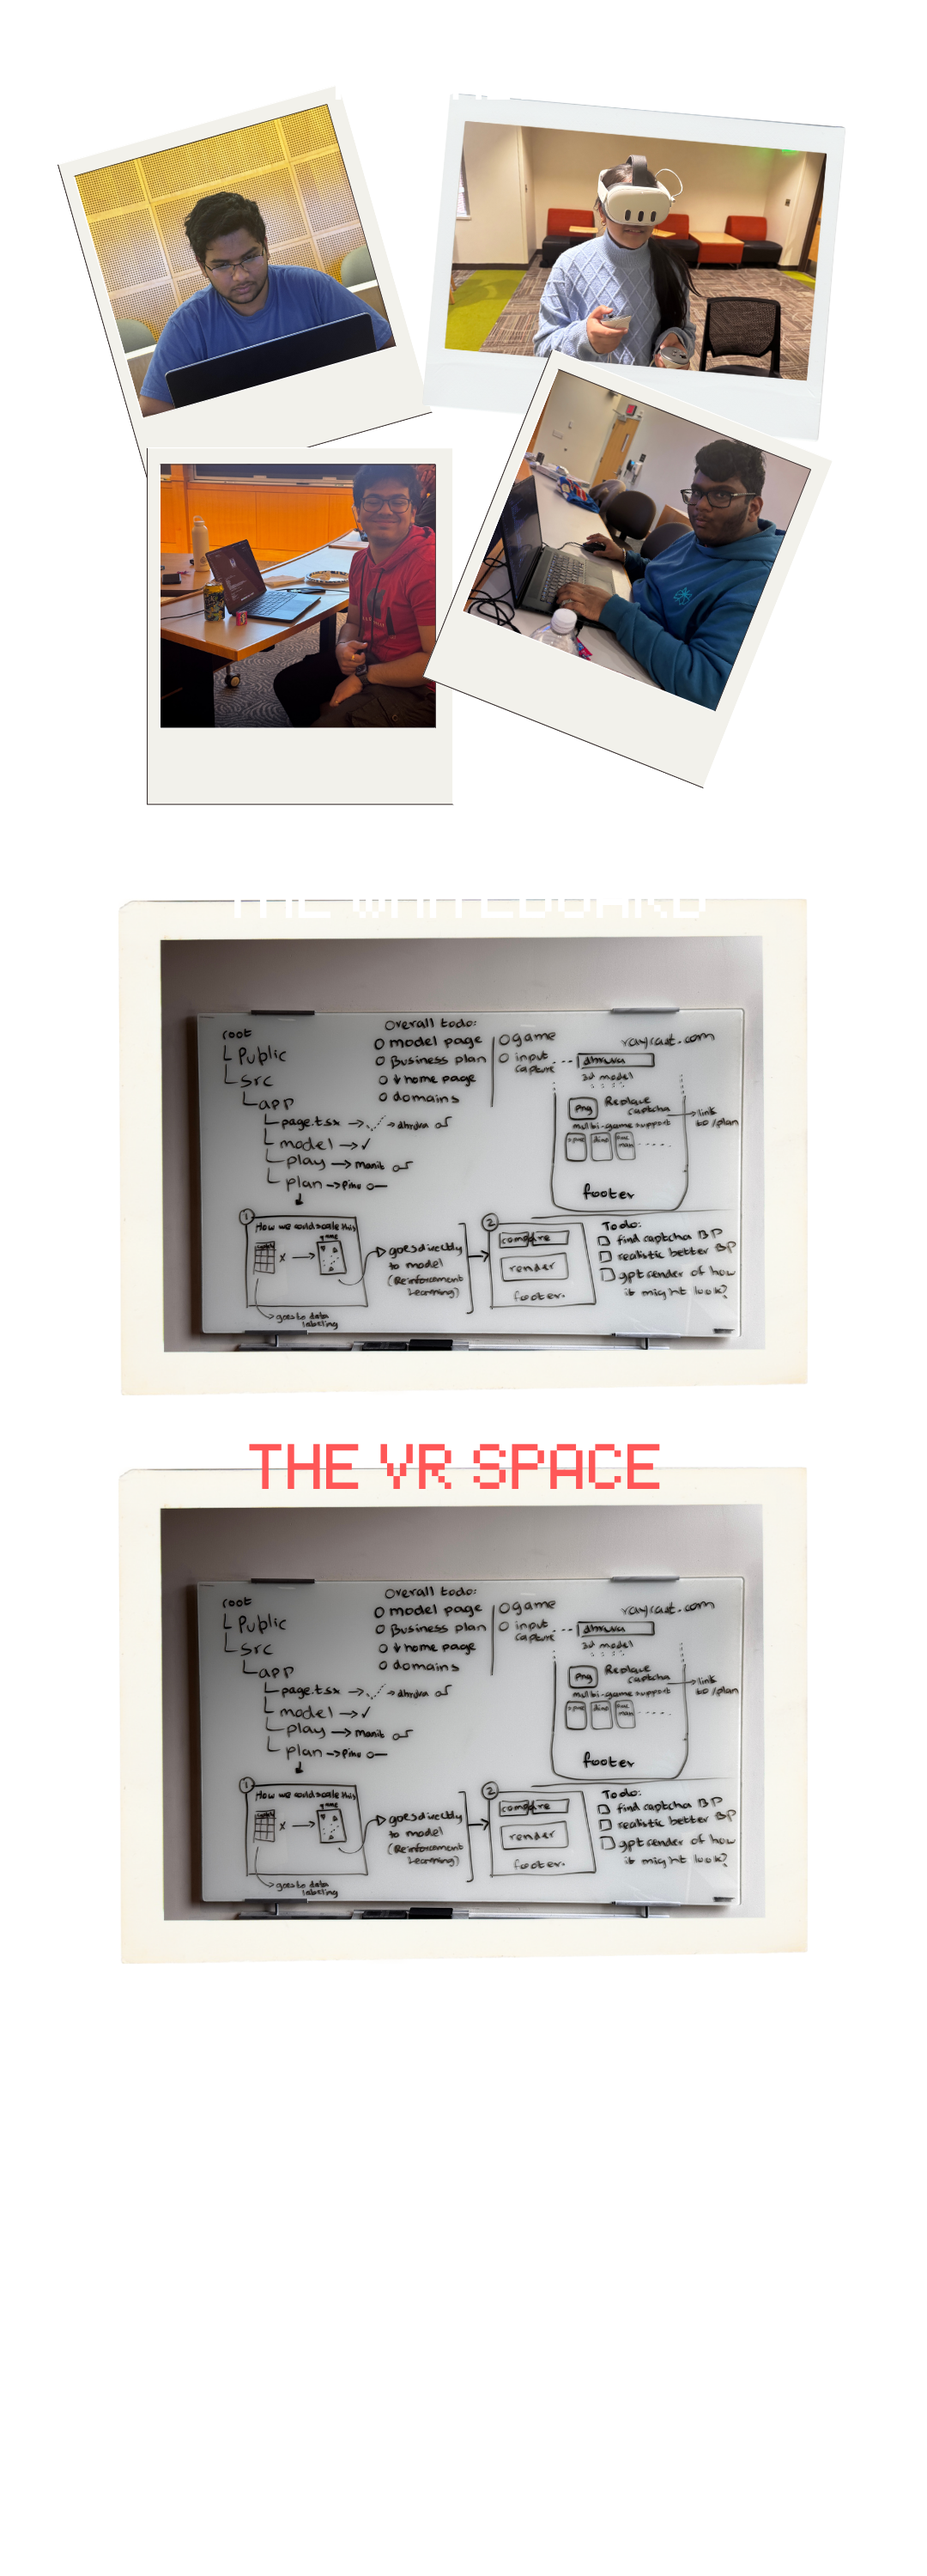
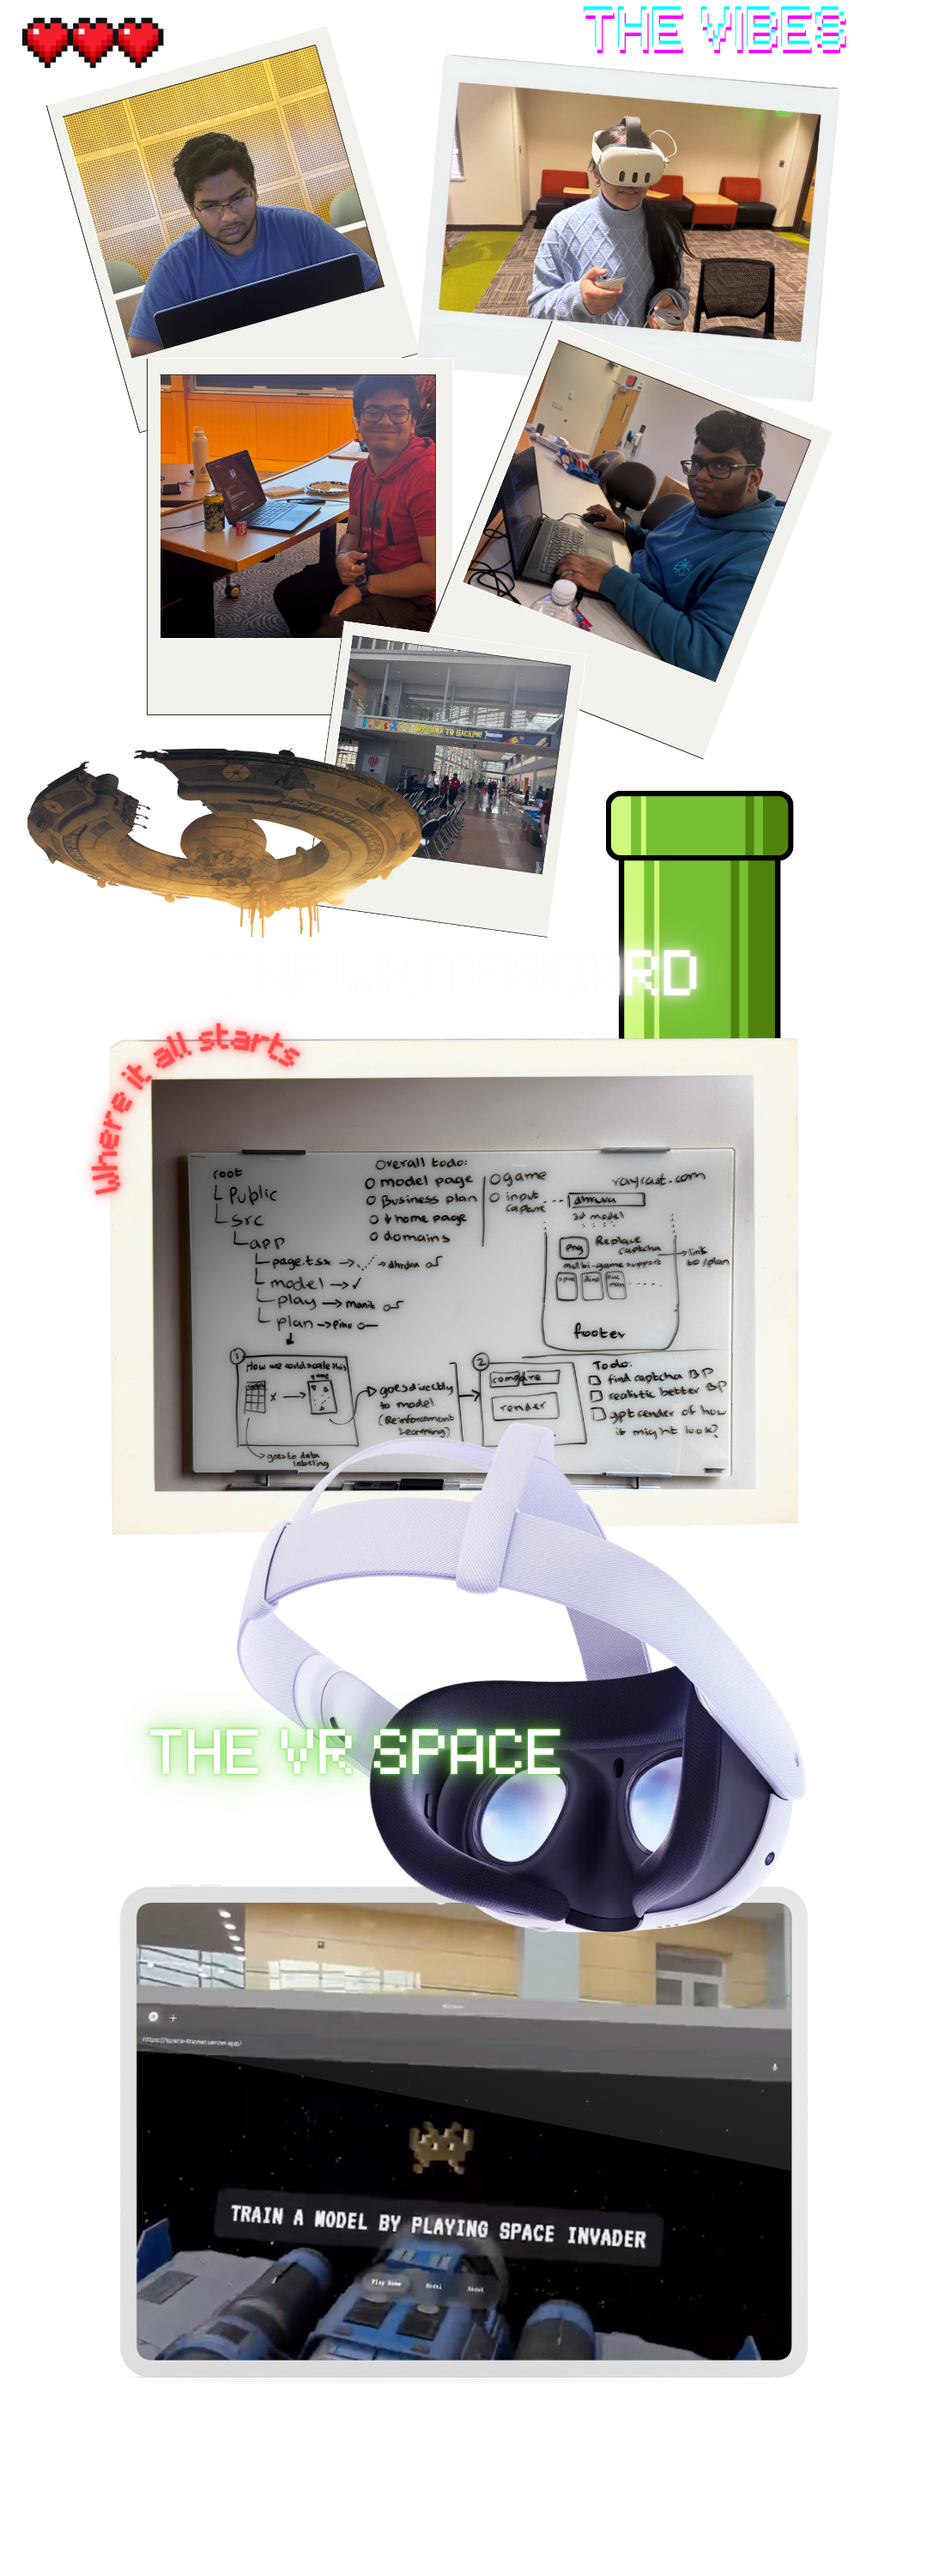
testing for manit

diff --git a/src/app/page.tsx b/src/app/page.tsx
@@ -322,7 +322,7 @@ export default function Home() {
         
         {/* Multi-Game Support section */}
         <div className={styles.gamesSection} id="gamesSection">
-          <h2 className={styles.gamesTitle}>Multi-Game Support</h2>
+          <h2 className={styles.gamesTitle}>Possible Games</h2>
           
           <div className={styles.gamesCarousel}>
             {/* Left Navigation Arrow */}
@@ -488,7 +488,15 @@ export default function Home() {
             </div>
           </div>
         </div>
-        
+        {/* Whiteboard Image - Full Width */}
+        <div className="w-full mt-16">
+          <img 
+            src="/THE WHITEBOARD.PNG" 
+            alt="Whiteboard" 
+            style={{ width: '100%', height: 'auto' }}
+            loading="lazy"
+          />
+        </div>
         {/* Technologies Used section */}
         <div className={styles.techSection} id="techSection">
           <h2 className={styles.techTitle}>Technologies Used</h2>
@@ -653,15 +661,7 @@ export default function Home() {
           </div>
         </div>
         
-        {/* Whiteboard Image - Full Width */}
-        <div className="w-full mt-16">
-          <img 
-            src="/THE WHITEBOARD.PNG" 
-            alt="Whiteboard" 
-            style={{ width: '100%', height: 'auto' }}
-            loading="lazy"
-          />
-        </div>
+       
       </div>
     </main>
   );

diff --git a/src/app/page.module.css b/src/app/page.module.css
@@ -123,7 +123,7 @@
 }
 
 .hackpsuEmblem, .metaquestEmblem {
-  width: 90px; /* 10% smaller than original 100px */
+  width: 150px; /* 10% smaller than original 100px */
   height: auto;
   pointer-events: none; /* Don't block clicks */
 }
